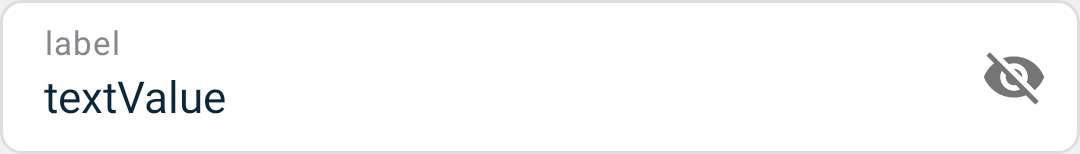
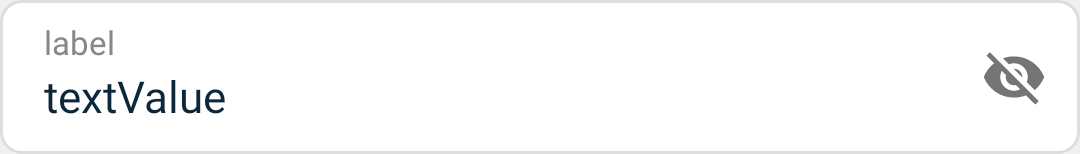
ANDROID-14617 Compose TextInput hint should use preset3 regular (#351)
* ANDROID-14617 Compose TextInput hint should use preset3 regular

* ANDROID-14617 preset1 when minimized

* ANDROID-14617 fix colors

* ANDROID-14617 rename

* Updated screenshots baseline

* ANDROID-14617 Fix hint size when there is a visual transformation

* ANDROID-14617 Fix input hint animation

* ANDROID-14617 Set preset attrs except fontSize

* ANDROID-14617 Add explanatory comment

---------

Changed region(s): [[0.0306, 0.1818, 0.1222, 0.3636]]

diff --git a/library/src/main/java/com/telefonica/mistica/compose/input/TextInputImpl.kt b/library/src/main/java/com/telefonica/mistica/compose/input/TextInputImpl.kt
@@ -16,6 +16,7 @@ import androidx.compose.runtime.remember
 import androidx.compose.ui.Modifier
 import androidx.compose.ui.graphics.Color
 import androidx.compose.ui.platform.testTag
+import androidx.compose.ui.text.AnnotatedString
 import androidx.compose.ui.text.input.VisualTransformation
 import androidx.compose.ui.tooling.preview.Preview
 import androidx.compose.ui.unit.dp
@@ -113,9 +114,13 @@ private fun TextBox(
         value = value,
         onValueChange = onValueChange,
         label = {
+            val transformedText = remember(value) {
+                visualTransformation.filter(AnnotatedString(value))
+            }
             TextInputLabel(
                 text = label,
-                isMinimized = interactionSource.collectIsFocusedAsState().value,
+                inputIsNotEmpty = transformedText.text.isNotEmpty(),
+                isFocused = interactionSource.collectIsFocusedAsState().value,
                 isError = isError,
             )
         },
@@ -141,17 +146,32 @@ private fun TextBox(
 @Composable
 private fun TextInputLabel(
     text: String,
-    isMinimized: Boolean,
+    inputIsNotEmpty: Boolean,
+    isFocused: Boolean,
     isError: Boolean,
     modifier: Modifier = Modifier,
 ) {
+    val isMinimized = inputIsNotEmpty || isFocused
+    val preset = if (isMinimized) {
+        MisticaTheme.typography.preset1
+    } else {
+        MisticaTheme.typography.preset3
+    }
+    // Setting every Mistica preset separately except its fontSize.
+    // We will rely on default fontSize values from Material so minimize/maximize
+    // label animation is not broken. It would require to have
+    // intermediate preset sizes to mimic the same animation
     Text(
         text = text,
         color = when {
             isError && isMinimized -> MisticaTheme.colors.error
-            isMinimized -> MisticaTheme.colors.controlActivated
+            isFocused -> MisticaTheme.colors.controlActivated
             else -> MisticaTheme.colors.textSecondary
         },
+        fontFamily = preset.fontFamily,
+        fontWeight = preset.fontWeight,
+        lineHeight = preset.lineHeight,
+        letterSpacing = preset.letterSpacing,
         modifier = modifier,
     )
 }

diff --git a/catalog/src/main/java/com/telefonica/mistica/catalog/ui/compose/components/Inputs.kt b/catalog/src/main/java/com/telefonica/mistica/catalog/ui/compose/components/Inputs.kt
@@ -227,11 +227,11 @@ private fun TextInputWithTransformation() {
             text = it
         },
         label = "Your name",
-        visualTransformation = PhoneVisualTransformation
+        visualTransformation = PrefixVisualTransformation
     )
 }
 
-object PhoneVisualTransformation : VisualTransformation {
+object PrefixVisualTransformation : VisualTransformation {
     override fun filter(text: AnnotatedString): TransformedText {
         val newText = AnnotatedString("$PREFIX$text")
         return TransformedText(newText, object : OffsetMapping {
@@ -239,7 +239,7 @@ object PhoneVisualTransformation : VisualTransformation {
                 offset + PREFIX_LENGTH
 
             override fun transformedToOriginal(offset: Int): Int =
-                offset - PREFIX_LENGTH
+                (offset - PREFIX_LENGTH).coerceAtLeast(0)
         })
     }
 
